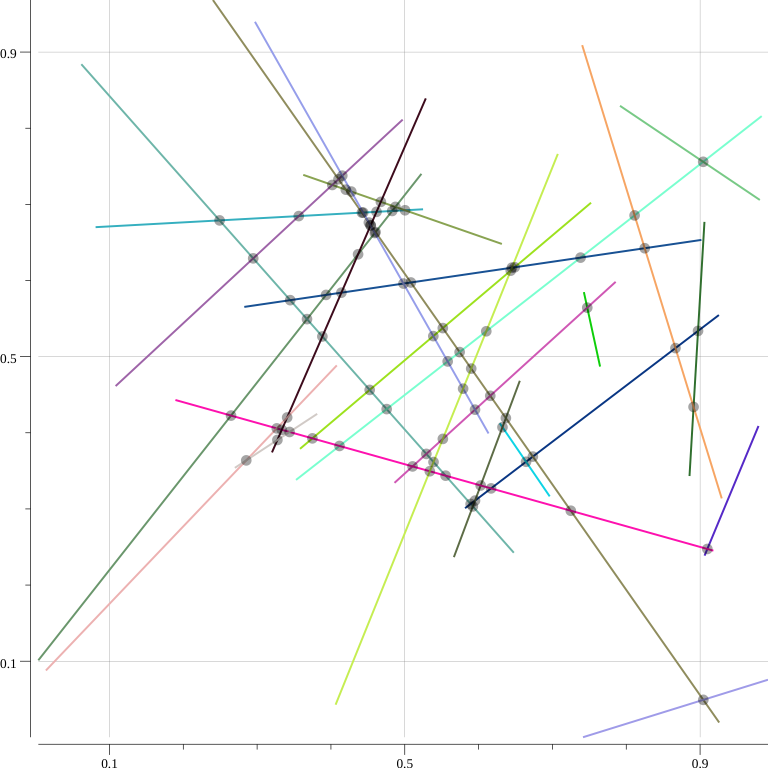
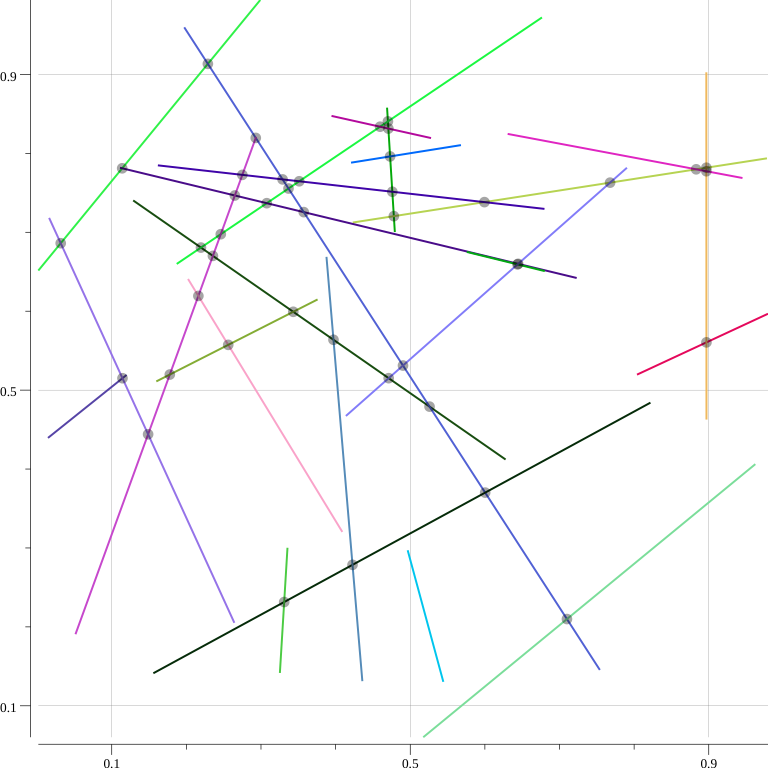
updated (cherry-picked) example

diff --git a/go/README.md b/go/README.md
@@ -13,6 +13,6 @@ $ nix-shell
 [nix-shell:path/to/grafs/go]$ ./codegen
 [nix-shell:path/to/grafs/go]$ go test geom bst
 [nix-shell:path/to/grafs/go]$ go test geom -bench .
-[nix-shell:path/to/grafs/go]$ go build -o bin/main main.go && ./bin/main -c -d -b -i -n 25 -s 1
+[nix-shell:path/to/grafs/go]$ go build -o bin/main main.go && ./bin/main -c -d -b -i -n 25 -s 5
 [nix-shell:path/to/grafs/go]$ open out/
 ```
